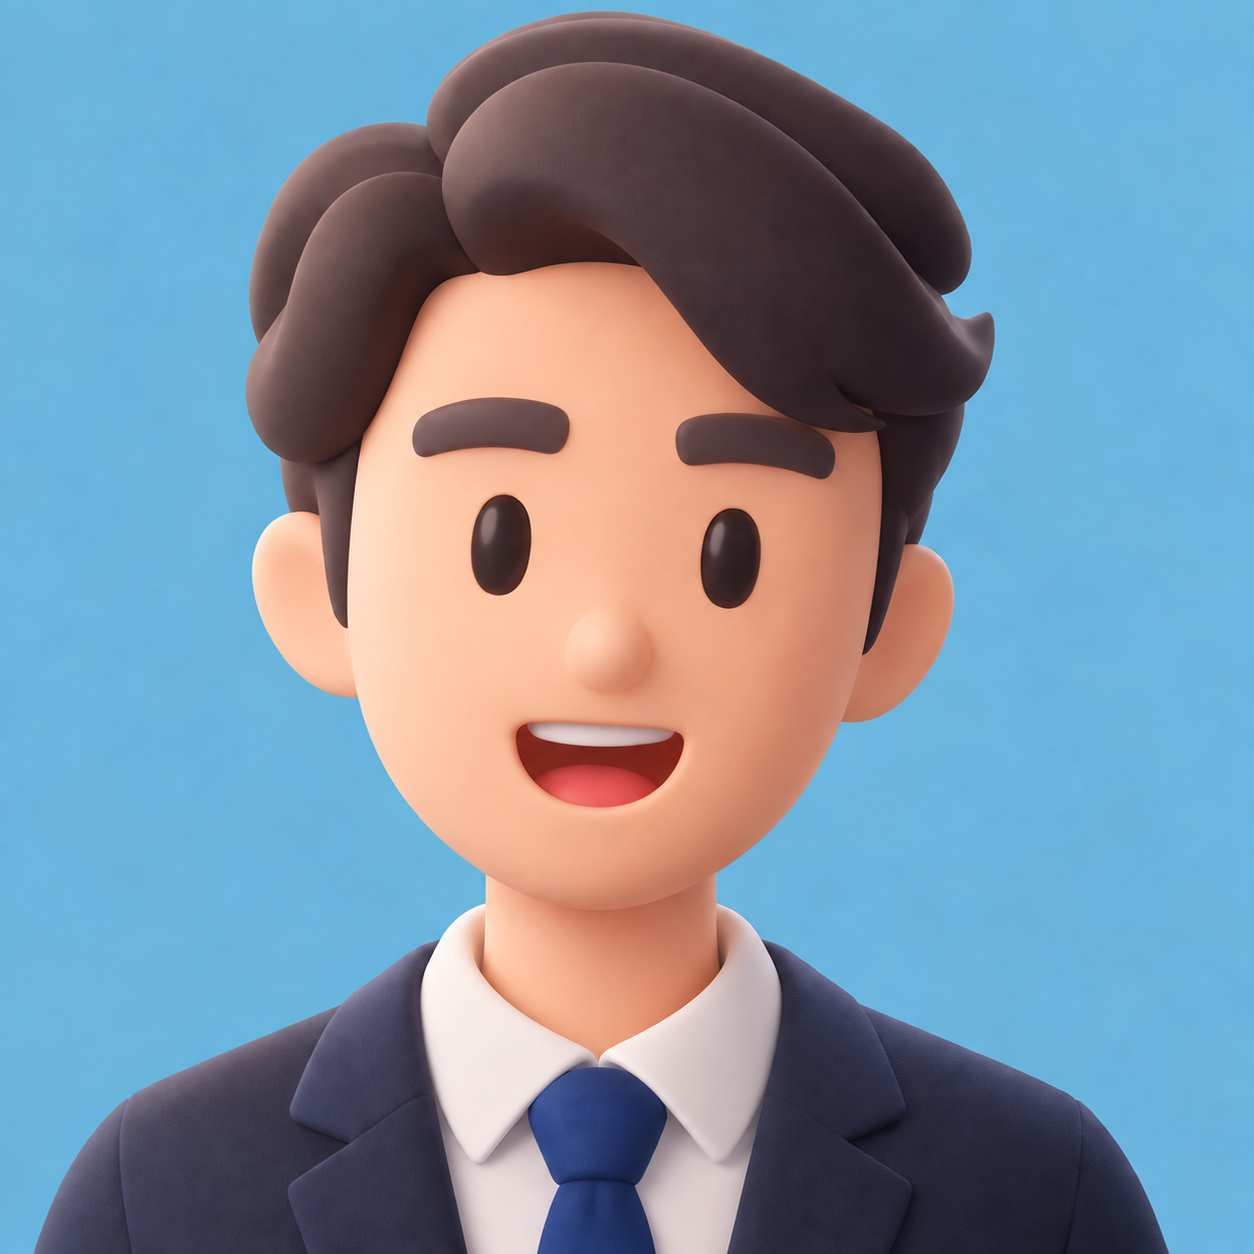
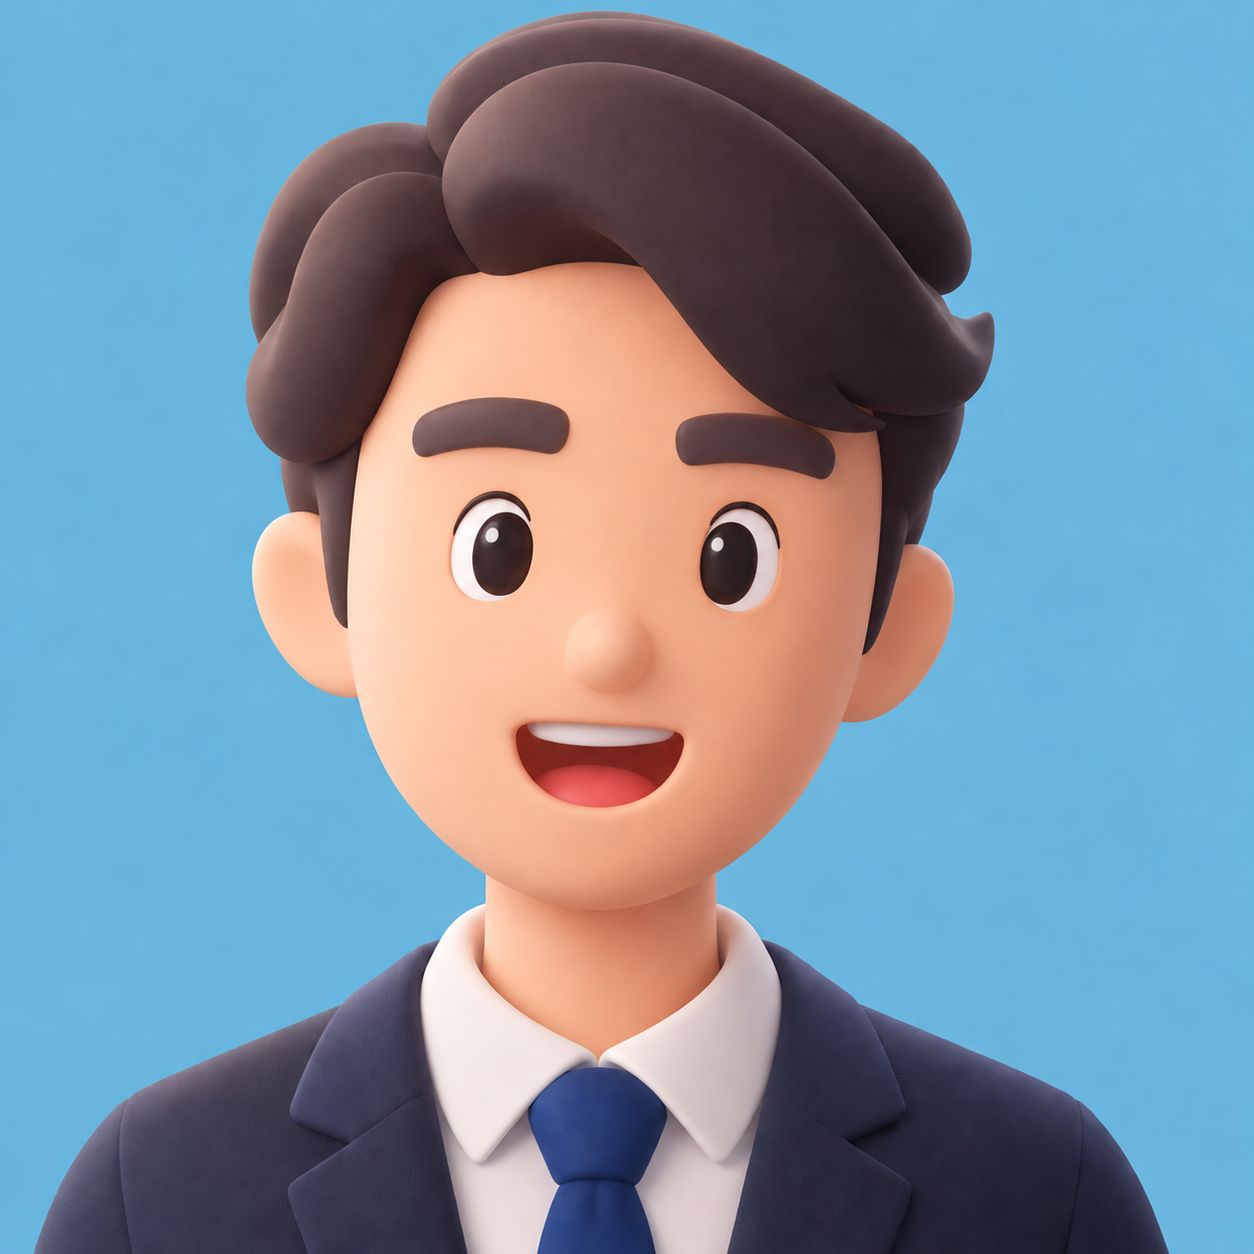
Personnage principal : yeux avec blanc et pupille dans tous les états
- base.png : yeux de base_v2 recopiés sur l'ancienne base (zone des yeux seule,
  bord doux) ; l'image générée avait aussi ouvert la bouche, tout le reste
  reste identique à l'ancienne base ; bouche_X = nouvelle base
- yeux_mi_clos et emotion_serieux remplacés par les versions v2
- les 15 images dérivées de l'ancienne base (bouches, sourires, mains) reçoivent
  les nouveaux yeux (scripts/outils/transplanter-yeux.py), sinon chaque bouche
  « changeait » les yeux et faussait les zones ; version du manifeste 6
- 232 combinaisons vérifiées sans fuite, rendu complet contrôlé ; README

Claude-Session: https://claude.ai/code/session_0142Mr13BCgQRDKKKVw1X1e6

Changed region(s): [[0.3421, 0.3732, 0.4354, 0.4976], [0.5598, 0.4043, 0.622, 0.4976]]

diff --git a/scripts/outils/transplanter-yeux.py b/scripts/outils/transplanter-yeux.py
@@ -1,0 +1,25 @@
+"""
+Quand la base d'une marionnette change (ex. nouveaux yeux), toutes les images dérivées de
+l'ancienne base (bouches, sourires, mains) portent encore les anciens yeux : le compositeur
+verrait alors « un changement » dans la zone des yeux sur chaque bouche. Ce script recopie la
+zone modifiée de la nouvelle base dans chaque image dérivée, avec un bord doux.
+
+    python3 scripts/outils/transplanter-yeux.py <ancienne_base.png> <nouvelle_base.png> <image1.png> [image2.png …]
+
+Les images sont modifiées sur place. Dépendances : numpy, Pillow.
+"""
+import sys
+import numpy as np
+from PIL import Image, ImageFilter
+
+old = np.asarray(Image.open(sys.argv[1]).convert("RGBA")).astype(np.float32)
+new = np.asarray(Image.open(sys.argv[2]).convert("RGBA")).astype(np.float32)
+diff = np.abs(new[..., :3] - old[..., :3]).max(axis=2)
+core = (diff > 40).astype(np.uint8) * 255
+m = Image.fromarray(core).filter(ImageFilter.MaxFilter(9)).filter(ImageFilter.MinFilter(5)).filter(ImageFilter.MaxFilter(15)).filter(ImageFilter.GaussianBlur(4))
+alpha = np.asarray(m).astype(np.float32) / 255
+for p in sys.argv[3:]:
+    img = np.asarray(Image.open(p).convert("RGBA")).astype(np.float32)
+    out = img * (1 - alpha[..., None]) + new * alpha[..., None]
+    Image.fromarray(np.clip(out, 0, 255).astype(np.uint8)).save(p)
+    print("yeux transplantés :", p)

diff --git a/README.md b/README.md
@@ -217,6 +217,8 @@ Chaque calque n'est composé que dans sa zone (yeux seuls, bande des sourcils, b
 
 **Profondeur et finition** (aucune image) : parallaxe du fond de bulle à l'inverse de la tête (`bubble.parallaxe`, px par degré), respiration portée par le buste seul (`marionnette.breathing`, le buste se soulève, la tête suit à 40 %), balancement des épaules vers la main qui se lève (`marionnette.epaules`, degrés), et post-traitement `scene.post` : vignettage des bords, grain fin déterministe (graine = numéro d'image, donc rendu identique à chaque fois) et netteté du personnage 2D (convolution SVG). Le tout est appliqué dans la bulle, à l'identique en prévisualisation, rendu serveur et export navigateur.
 
+Si la **base** change (par exemple de nouveaux yeux), toutes les images dérivées de l'ancienne base doivent être mises à jour dans la zone modifiée, sinon chaque bouche « change » aussi les yeux et fausse les zones : `python3 scripts/outils/transplanter-yeux.py ancienne_base.png nouvelle_base.png bouche_*.png …` recopie la zone modifiée de la nouvelle base dans chaque image, avec un bord doux. Incrémentez ensuite `version` dans le manifeste.
+
 Pour réessayer les sourcils avec de nouvelles images : `python3 scripts/outils/nettoyer-sourcils.py` (numpy, Pillow) tente de les reconstruire (base sans ses sourcils plus les nouveaux sourcils), puis déclarez-les sous `brows` dans `marionnette.json` et baissez `marionnette.sourcilsAccent`. Le champ `version` du manifeste, incrémenté à chaque changement d'image, force le navigateur à recharger les images.
 
 `npm run verif-marionnette [projet] [dossier]` passe toutes les combinaisons (émotion × bouche × clignement × regard × sourcils × mains) dans Chrome headless, vérifie qu'aucun calque ne modifie l'image hors de sa zone, et écrit une vignette par combinaison pour contrôle visuel.
